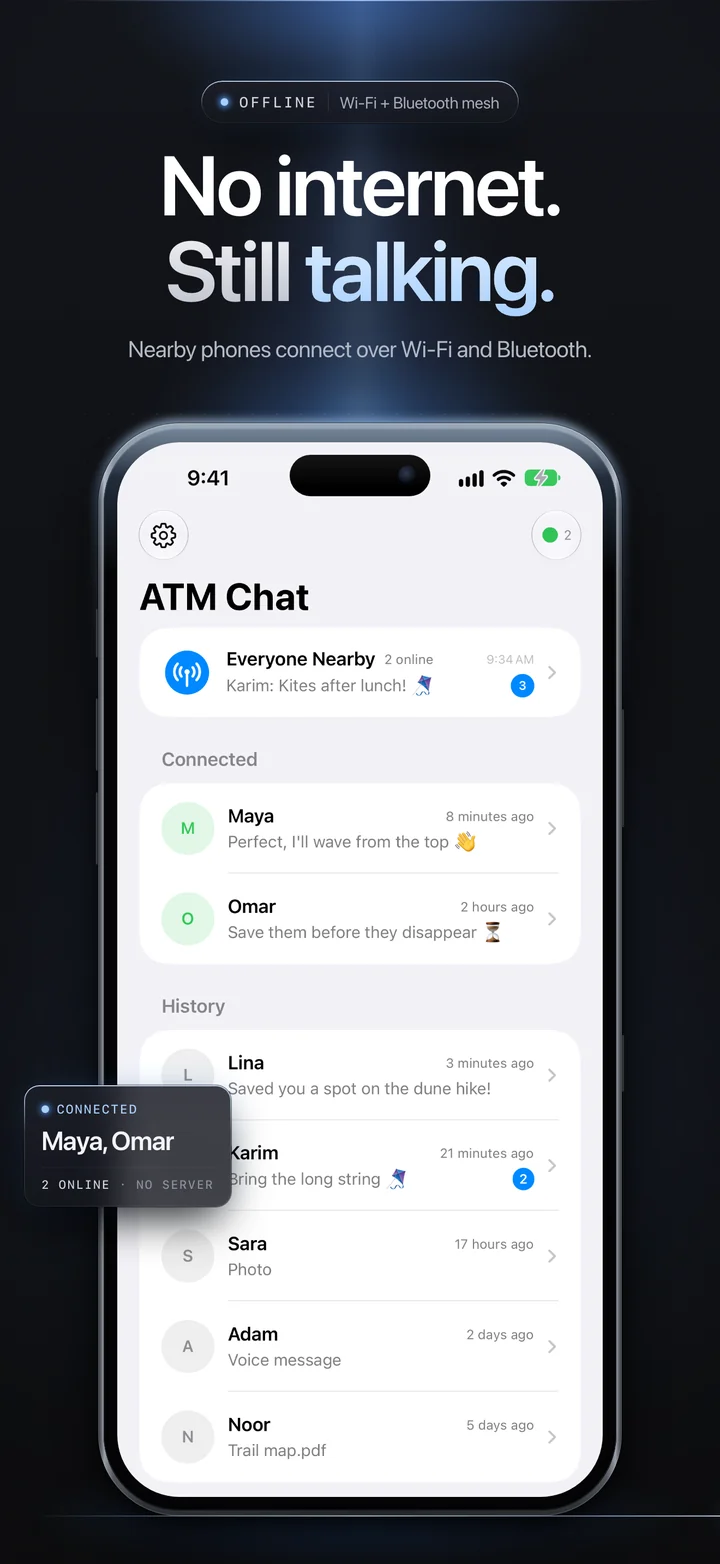
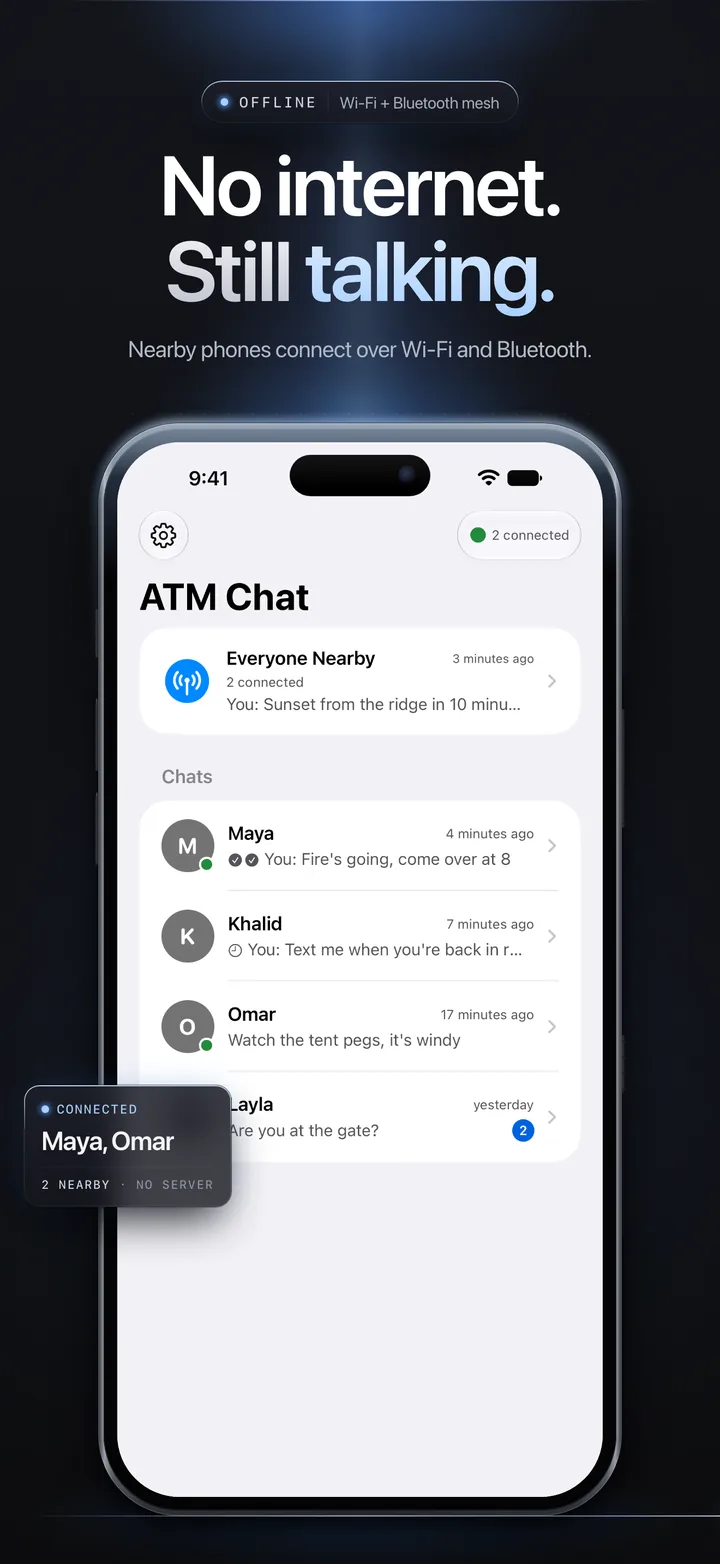
Home page: ATM Chat slides rebuilt on 1.2 screens
The three ATM Chat slides on the home page showed version 1.1 screens.
They are re-rendered from the October deck sources with the captures
taken on 1.2.0 (57) on 31 October. Callouts follow the new captures:
the people in the room, who the queued message waits for, and where the
Queued note sits.

diff --git a/docs/index.html b/docs/index.html
@@ -187,9 +187,9 @@
           <div class="studio-body">
             <div class="studio-note"><h3>No internet.<br>Still together.</h3><p>For the campsite, the trail, and the people nearby. Keep the conversation going over Wi-Fi and Bluetooth.</p><a href="/chat/">Explore ATM Chat <span aria-hidden="true">↗</span></a></div>
             <div class="studio-frames" role="region" aria-label="ATM Chat highlights" tabindex="0">
-              <figure class="screenshot-item"><img src="/images/screenshots/chat/studio_01.webp?v=20261023" alt="No internet. Still talking." width="720" height="1564" loading="lazy" decoding="async"><figcaption class="caption">A little closer</figcaption></figure>
-              <figure class="screenshot-item"><img src="/images/screenshots/chat/studio_03.webp?v=20261023" alt="One room. Everyone nearby." width="720" height="1564" loading="lazy" decoding="async"><figcaption class="caption">Everyone’s invited</figcaption></figure>
-              <figure class="screenshot-item"><img src="/images/screenshots/chat/studio_06.webp?v=20261023" alt="Out of range. It waits." width="720" height="1564" loading="lazy" decoding="async"><figcaption class="caption">Pick up where you left off</figcaption></figure>
+              <figure class="screenshot-item"><img src="/images/screenshots/chat/studio_01.webp?v=20261114" alt="No internet. Still talking." width="720" height="1564" loading="lazy" decoding="async"><figcaption class="caption">A little closer</figcaption></figure>
+              <figure class="screenshot-item"><img src="/images/screenshots/chat/studio_03.webp?v=20261114" alt="One room. Everyone nearby." width="720" height="1564" loading="lazy" decoding="async"><figcaption class="caption">Everyone’s invited</figcaption></figure>
+              <figure class="screenshot-item"><img src="/images/screenshots/chat/studio_06.webp?v=20261114" alt="Out of range. It waits." width="720" height="1564" loading="lazy" decoding="async"><figcaption class="caption">Pick up where you left off</figcaption></figure>
             </div>
           </div>
         </details>
